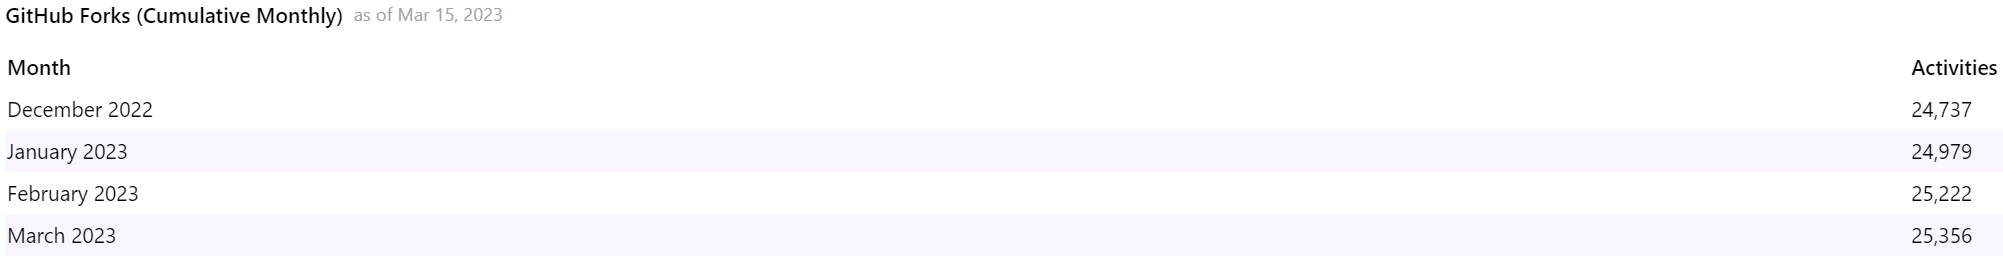
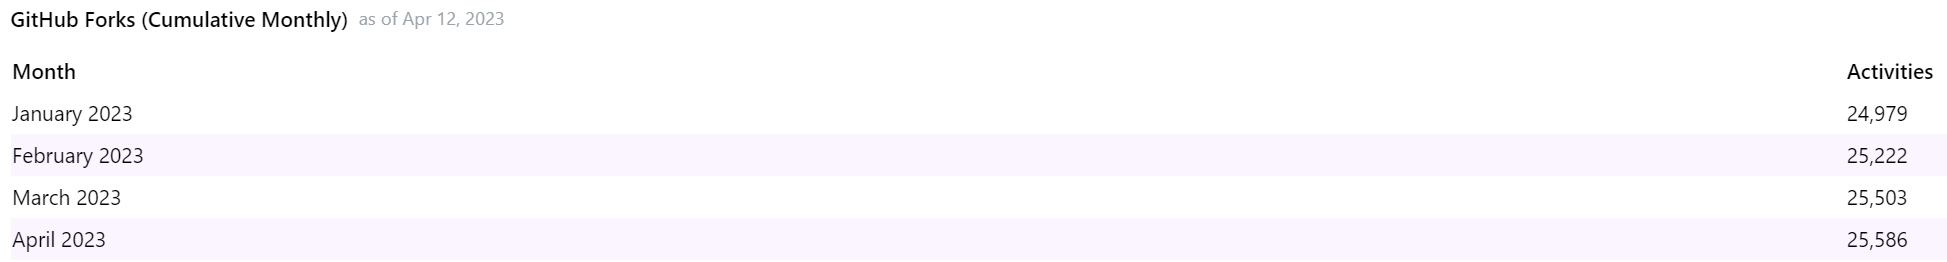
Add April Images for oss metrics

diff --git a/README.md b/README.md
@@ -1,7 +1,7 @@
 # open-source-metrics
 Various metrics on some of our open source project - _Work-in-Progress_
 
-📅 Extracted on March 15th 2023
+📅 Extracted on April 12th 2023
 
 # Swagger Projects Combined
 
